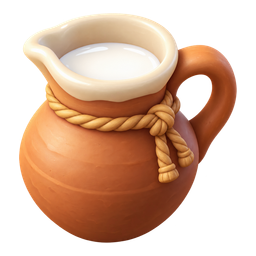
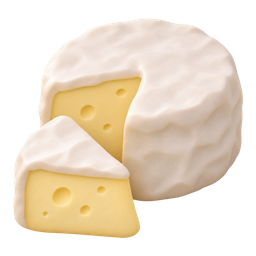
모든 나무 물 한 번에 한 번 성장(growthPerStage · regrowWater 1), 모든 동물 먹이 한 번 → 받기(careGoal 1, 2문제). 인어공주의 마법 빗 → 인어공주의 목소리로 만든 머리핀(새 그림, 레어템 그대로), 염소젖 → 치즈(새 그림). id 는 저장 데이터와 맞추려 그대로(mermaidComb · goatMilk)

diff --git a/src/config/catalog.ts b/src/config/catalog.ts
@@ -26,12 +26,12 @@ export interface TreeSpecies {
   /** 열매 맺을 때 한 번에 달리는 개수. HARVEST_BY_ATTEMPTS[0] 과 같아야 무실수 수확이 온전히 들어온다. */
   yield: number;
   unlockLevel: number;
-  /** 단계 하나를 올리는 데 필요한 정답 수 (처음 키울 때) */
-  growthPerStage: number;
   /**
-   * 수확한 뒤 큰 나무에서 다시 열매가 열리기까지 줄 물 (정답 수).
-   * 처음 키울 때와 따로 둔다 — 수확 사이가 길면 지루하다. 수확까지 2~3문제가 되게 잡았다.
+   * 단계 하나를 올리는 데 필요한 정답 수 (처음 키울 때).
+   * 지금은 모든 나무가 1: 물 한 번에 한 번 자란다 (2026-11 사용자 요청. 예전엔 비싼 나무일수록 2~3)
    */
+  growthPerStage: number;
+  /** 수확한 뒤 큰 나무에서 다시 열매가 열리기까지 줄 물 (정답 수). 지금은 모든 나무가 1 */
   regrowWater: number;
 }
 
@@ -69,11 +69,11 @@ export const TREE_SPECIES: Record<TreeSpeciesId, TreeSpecies> = {
     seedPrice: 30,
     fruitId: 'peach',
     fruitName: '복숭아',
-    // 열매 값은 "문제당 벌이"가 레벨 따라 고르게 오르도록 잡았다 (수확 사이 문제 수와 함께 본다)
+    // 열매 값은 "문제당 벌이"가 레벨 따라 고르게 오르도록 잡았다 (2026-11 성장 횟수를 모두 1로 바꾼 뒤로는 값만으로 차이가 난다)
     fruitPrice: 13,
     yield: 4,
     unlockLevel: 3,
-    growthPerStage: 2,
+    growthPerStage: 1,
     regrowWater: 1,
   },
   cherry: {
@@ -86,7 +86,7 @@ export const TREE_SPECIES: Record<TreeSpeciesId, TreeSpecies> = {
     fruitPrice: 15,
     yield: 4,
     unlockLevel: 4,
-    growthPerStage: 2,
+    growthPerStage: 1,
     regrowWater: 1,
   },
   grape: {
@@ -99,8 +99,8 @@ export const TREE_SPECIES: Record<TreeSpeciesId, TreeSpecies> = {
     fruitPrice: 27,
     yield: 4,
     unlockLevel: 5,
-    growthPerStage: 2,
-    regrowWater: 2,
+    growthPerStage: 1,
+    regrowWater: 1,
   },
   persimmon: {
     id: 'persimmon',
@@ -112,8 +112,8 @@ export const TREE_SPECIES: Record<TreeSpeciesId, TreeSpecies> = {
     fruitPrice: 30,
     yield: 4,
     unlockLevel: 6,
-    growthPerStage: 3,
-    regrowWater: 2,
+    growthPerStage: 1,
+    regrowWater: 1,
   },
   banana: {
     id: 'banana',
@@ -125,8 +125,8 @@ export const TREE_SPECIES: Record<TreeSpeciesId, TreeSpecies> = {
     fruitPrice: 34,
     yield: 4,
     unlockLevel: 7,
-    growthPerStage: 3,
-    regrowWater: 2,
+    growthPerStage: 1,
+    regrowWater: 1,
   },
   blueberry: {
     id: 'blueberry',
@@ -138,8 +138,8 @@ export const TREE_SPECIES: Record<TreeSpeciesId, TreeSpecies> = {
     fruitPrice: 40,
     yield: 4,
     unlockLevel: 8,
-    growthPerStage: 3,
-    regrowWater: 2,
+    growthPerStage: 1,
+    regrowWater: 1,
   },
 };
 
@@ -163,7 +163,7 @@ export interface AnimalSpecies {
   produceId: ProduceId;
   produceName: string;
   producePrice: number;
-  /** 생산물이 나오기까지 필요한 먹이 주기 횟수 */
+  /** 생산물이 나오기까지 필요한 먹이 주기 횟수. 지금은 모든 동물이 1 (먹이 한 번 → 받기, 2026-11 사용자 요청) */
   careGoal: number;
   unlockLevel: number;
   /** 우리에 둘 수 있는 최대 마릿수 (목장 넓이 · 화면 혼잡을 보고 정함) */
@@ -173,10 +173,11 @@ export interface AnimalSpecies {
 /**
  * 생산물 가격은 "같은 레벨(해금 레벨)의 가장 좋은 나무보다 문제당 벌이가 10~15% 높게" 잡았다 (2026-10-05).
  * 동물은 데려오는 값이 크고(112~468원) 종류마다 마릿수 제한이 있어서, 그만큼 조금 더 번다.
- * 모든 동물이 먹이 2번 + 받기 1번 = 3문제로, 나무의 수확 사이(2~3문제)와 리듬을 맞췄다.
+ * 2026-11 부터 모든 동물이 먹이 1번 + 받기 1번 = 2문제다 (나무도 물 한 번에 한 번 자란다).
+ * 값은 그대로 두어서, 지금 문제당 벌이는 아래와 같다 (나무는 심기부터 10번 수확까지 24문제 기준).
  *
  *   문제당 벌이 = (생산물값 × 3 − 먹이값 2원 × 돌봄횟수) / (돌봄횟수 + 1)   (한 번에 맞히면 3개)
- *   닭 24.7 (Lv2 오렌지 21.5) · 염소 32.7 (Lv4 체리 29.5) · 양 43.7 (Lv6 감 39.3) · 젖소 60.7 (Lv8 블루베리 52.7)
+ *   닭 38 (Lv2 오렌지 17) · 염소 50 (Lv4 체리 22.8) · 양 66.5 (Lv6 감 46.3) · 젖소 92 (Lv8 블루베리 61.8)
  */
 export const ANIMAL_SPECIES: Record<AnimalSpeciesId, AnimalSpecies> = {
   chicken: {
@@ -186,7 +187,7 @@ export const ANIMAL_SPECIES: Record<AnimalSpeciesId, AnimalSpecies> = {
     produceId: 'egg',
     produceName: '달걀',
     producePrice: 26,
-    careGoal: 2,
+    careGoal: 1,
     unlockLevel: 2,
     maxCount: 2,
   },
@@ -195,9 +196,9 @@ export const ANIMAL_SPECIES: Record<AnimalSpeciesId, AnimalSpecies> = {
     name: '염소',
     price: 168,
     produceId: 'goatMilk',
-    produceName: '염소젖',
+    produceName: '치즈',
     producePrice: 34,
-    careGoal: 2,
+    careGoal: 1,
     unlockLevel: 4,
     maxCount: 2,
   },
@@ -208,7 +209,7 @@ export const ANIMAL_SPECIES: Record<AnimalSpeciesId, AnimalSpecies> = {
     produceId: 'wool',
     produceName: '양털',
     producePrice: 45,
-    careGoal: 2,
+    careGoal: 1,
     unlockLevel: 6,
     maxCount: 2,
   },
@@ -219,7 +220,7 @@ export const ANIMAL_SPECIES: Record<AnimalSpeciesId, AnimalSpecies> = {
     produceId: 'milk',
     produceName: '우유',
     producePrice: 62,
-    careGoal: 2,
+    careGoal: 1,
     unlockLevel: 8,
     maxCount: 2,
   },
@@ -255,7 +256,7 @@ export const SELLABLE_NAME: Record<SellableId, string> = {
   banana: '바나나',
   blueberry: '블루베리',
   egg: '달걀',
-  goatMilk: '염소젖',
+  goatMilk: '치즈',
   wool: '양털',
   milk: '우유',
   ...fishRecord((fish) => FISH[fish].name),

diff --git a/scripts/art-prompts.ts b/scripts/art-prompts.ts
@@ -65,7 +65,8 @@ export const ART_PROMPTS: Record<string, string> = {
   [ASSETS.crops.banana]: 'one hand of three plump curved yellow bananas (#f6d24a) joined at a short green stem, with small brown tips',
   [ASSETS.crops.blueberry]: 'a small cluster of five round dusty-blue blueberries (#4f6fc4) with tiny star-shaped crowns, on a short twig with one small green leaf',
   [ASSETS.crops.egg]: 'one smooth cream-white chicken egg standing upright',
-  [ASSETS.crops.goatMilk]: 'a small round clay jug of goat milk with a light-brown body and a cream rim, with a little rope tied around the neck',
+  // 염소의 생산물: 치즈 (키는 옛 이름 goatMilk 그대로 — 저장된 가방과 맞춰야 한다)
+  [ASSETS.crops.goatMilk]: 'a cute wedge of creamy pale-yellow goat cheese (#f4e3a1) with a few round holes, next to a small round cheese wheel with a soft white rind, simple chunky shapes',
   [ASSETS.crops.wool]: 'a fluffy bundle of soft white sheep wool, like a cloud, tied with a pink ribbon',
   [ASSETS.crops.milk]: 'a glass bottle of fresh white milk with a sky-blue cap',
 
@@ -98,7 +99,8 @@ export const ART_PROMPTS: Record<string, string> = {
   [ASSETS.crops.rubberDuck]: 'one classic bright yellow rubber duck bath toy (#f6d24a) with an orange beak and small black eyes, shiny and wet with a few water drops on it, side view, facing left',
   [ASSETS.crops.baleen]: 'one handful of blue whale baleen: a bundle of five long gently curved flat baleen plates with fine hair-like fringes at their tips, tied together in the middle with a thin rope, shimmering sky-blue and pearly silver (#bfe3f2) with a soft magical glow and a few sparkles around it',
   [ASSETS.crops.coinPouch]: 'one plump brown leather coin pouch of a pirate king, tied with a red cord, its top open and overflowing with shiny gold coins (#f6c453) and one small red gem, a little gold anchor charm hanging from the cord, a soft golden shine',
-  [ASSETS.crops.mermaidComb]: 'one magical hair comb of a mermaid princess: a handle shaped like a pearly pink scallop seashell (#f4b8d0) decorated with small white pearls and a tiny aqua starfish, with neat fine comb teeth, a soft pink-and-aqua magical glow and a few sparkles',
+  // 인어공주의 목소리로 만든 머리핀 (키는 옛 이름 mermaidComb 그대로)
+  [ASSETS.crops.mermaidComb]: 'one magical hairpin made from the singing voice of a mermaid princess: an elegant pearly pink-and-aqua hairpin (#f4b8d0) whose head is a small spiral seashell with soft glowing sound-wave ripples and two tiny floating music notes made of light curling out of it, one small teardrop pearl dangling below, a soft dreamy pink-and-aqua magical glow and a few sparkles',
 
   /* ---- 씨앗 봉투: 글자 대신 열매 그림 ---- */
   [ASSETS.seeds.apple]: 'a small kraft-paper seed packet, folded at the top, with a picture of a red apple printed on the front',

diff --git a/src/config/fishing.ts b/src/config/fishing.ts
@@ -72,7 +72,8 @@ export const FISH: Record<FishId, FishDef> = {
   pearl: treasure({ id: 'pearl', name: '대왕 진주 조개', price: 55, weight: 1, size: 'thing', speed: 1.3, zone: 0.19, color: '#f3d9e2' }),
   baleen: treasure({ id: 'baleen', name: '흰수염고래의 수염 한 줌', price: 66, weight: 0.7, size: 'legend', speed: 1.3, zone: 0.19, color: '#bfe3f2' }),
   coinPouch: treasure({ id: 'coinPouch', name: '해적왕의 금화 주머니', price: 77, weight: 0.7, size: 'legend', speed: 1.4, zone: 0.19, color: '#c98a4b' }),
-  mermaidComb: treasure({ id: 'mermaidComb', name: '인어공주의 마법 빗', price: 88, weight: 0.7, size: 'legend', speed: 1.4, zone: 0.19, color: '#f4b8d0' }),
+  // id 는 저장된 가방 · 도감과 맞아야 해서 옛 이름(mermaidComb, 마법 빗)을 그대로 둔다. 지금은 머리핀이다
+  mermaidComb: treasure({ id: 'mermaidComb', name: '인어공주의 목소리로 만든 머리핀', price: 88, weight: 0.7, size: 'legend', speed: 1.4, zone: 0.19, color: '#f4b8d0' }),
   crown: treasure({ id: 'crown', name: '간이 필요한 용왕의 왕관', price: 99, weight: 0.6, size: 'legend', speed: 1.4, zone: 0.19, color: '#f6c453' }),
 };
 
